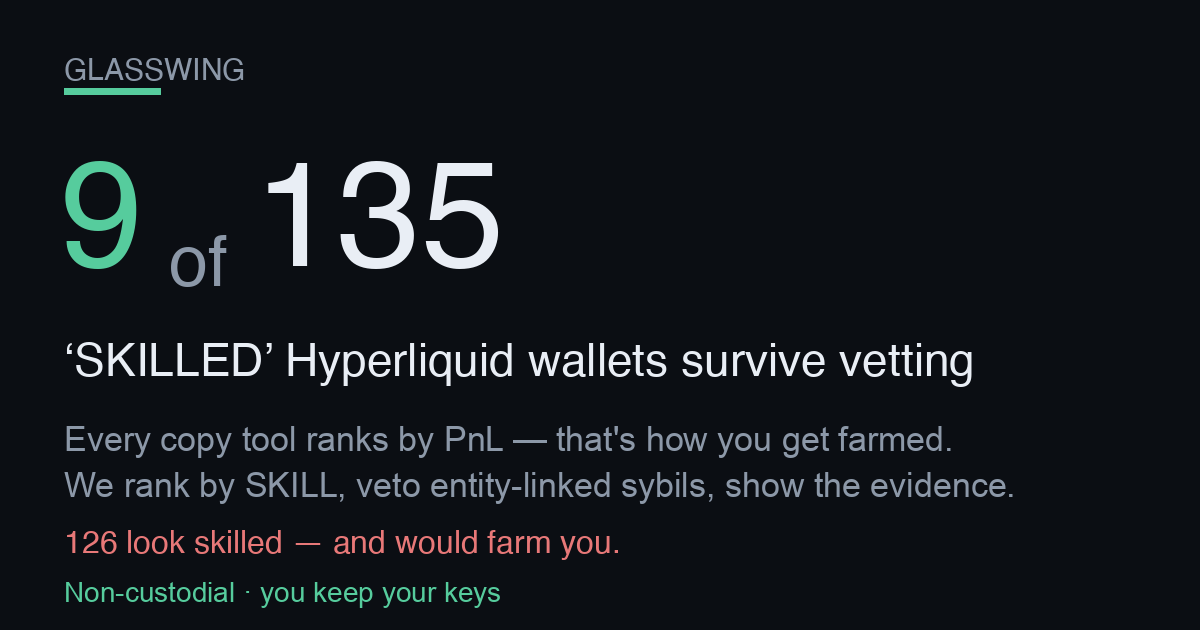
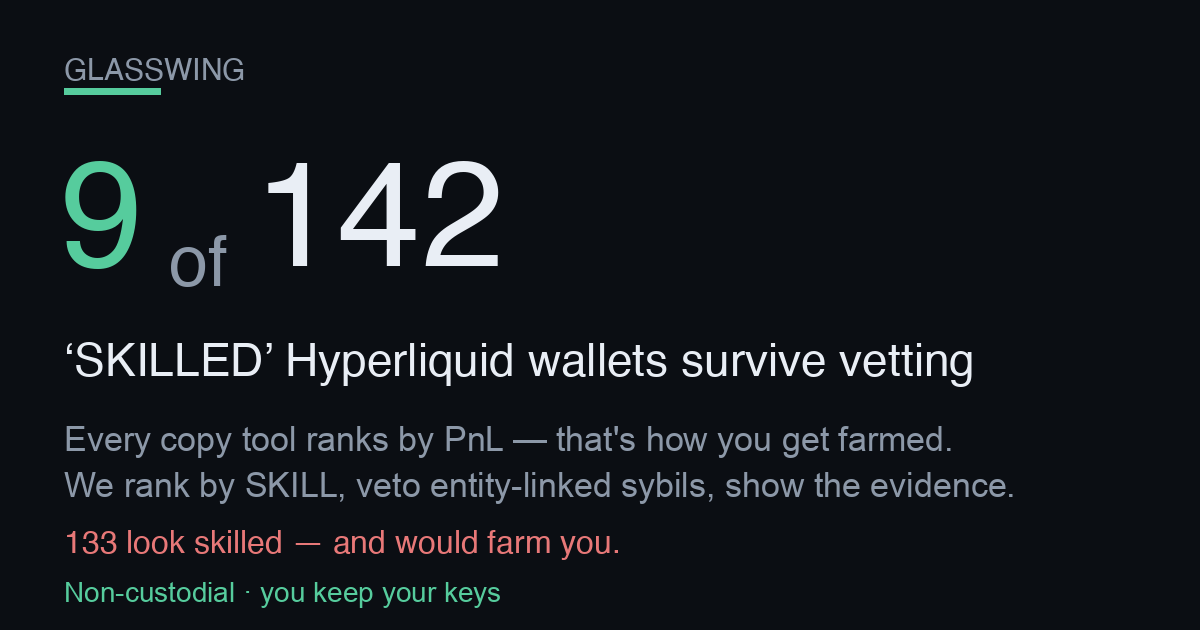
publish funnel 2026-08-03T05:01:57Z

Changed region(s): [[0.2775, 0.2413, 0.4317, 0.4524], [0.0617, 0.8444, 0.0925, 0.8746]]

diff --git a/screener.html b/screener.html
@@ -57,4 +57,4 @@ padding:11px 22px;font-size:15px;font-weight:800;border:1px solid var(--good)}
 footer{margin-top:34px;color:var(--muted);font-size:12px;line-height:1.6;
 border-top:1px solid var(--line);padding-top:16px}
 footer b{color:var(--ink)}
-</style></head><body><div class="wrap"><div class="nav"><a href="./index.html">&larr; Glasswing home</a><span class="sep">|</span><span>Edge Screener</span><span class="sep">|</span><a href="./dex.html">Copy a vetted leader</a></div><div class="hero"><h1>Hyperliquid Edge Screener</h1><div class="sub">Where&rsquo;s the carry, where a maker earns, and what&rsquo;s moving on Hyperliquid &mdash; live, computed from the public API. Bookmark it. Every number below is real and timestamped.</div><div class="stamp">Data as of <b>2026-08-02T16:41:17Z</b> &middot; rendered 2026-08-02T16:41:17Z &middot; 177 perps &middot; 88 HIP-3 (xyz) markets scanned</div></div><h2>Top funding &mdash; the carry table <span class="hint">perps ranked by annualized funding. Positive = longs pay shorts (a delta-neutral short earns it).</span></h2><div class="tblwrap"><table><thead><tr><th>Coin</th><th>Funding / hr</th><th>Annualized</th><th>Who pays</th><th>Open interest</th><th>24h volume</th></tr></thead><tbody><tr><td class="coin">HYPER<span class="tag thin" title="Low liquidity/OI &mdash; ADL &amp; liquidation risk; funding can flip">&#9888; thin</span></td><td>-0.0962%</td><td class="neg">-842.6%</td><td><span class="tag shorts">shorts pay</span></td><td>$477K</td><td>$1.7M</td></tr><tr><td class="coin">ACE<span class="tag thin" title="Low liquidity/OI &mdash; ADL &amp; liquidation risk; funding can flip">&#9888; thin</span></td><td>-0.0278%</td><td class="neg">-243.4%</td><td><span class="tag shorts">shorts pay</span></td><td>$397K</td><td>$734K</td></tr><tr><td class="coin">NIL<span class="tag thin" title="Low liquidity/OI &mdash; ADL &amp; liquidation risk; funding can flip">&#9888; thin</span></td><td>-0.0265%</td><td class="neg">-231.8%</td><td><span class="tag shorts">shorts pay</span></td><td>$456K</td><td>$1.1M</td></tr><tr><td class="coin">KAITO</td><td>+0.0149%</td><td class="pos">+130.2%</td><td><span class="tag longs">longs pay</span></td><td>$21.2M</td><td>$16.5M</td></tr><tr><td class="coin">IMX<span class="tag thin" title="Low liquidity/OI &mdash; ADL &amp; liquidation risk; funding can flip">&#9888; thin</span></td><td>-0.0123%</td><td class="neg">-107.6%</td><td><span class="tag shorts">shorts pay</span></td><td>$976K</td><td>$214K</td></tr><tr><td class="coin">MORPHO</td><td>-0.0079%</td><td class="neg">-69.5%</td><td><span class="tag shorts">shorts pay</span></td><td>$3.8M</td><td>$648K</td></tr><tr><td class="coin">W<span class="tag thin" title="Low liquidity/OI &mdash; ADL &amp; liquidation risk; funding can flip">&#9888; thin</span></td><td>-0.0058%</td><td class="neg">-50.7%</td><td><span class="tag shorts">shorts pay</span></td><td>$1.5M</td><td>$169K</td></tr><tr><td class="coin">APT</td><td>-0.0039%</td><td class="neg">-34.3%</td><td><span class="tag shorts">shorts pay</span></td><td>$3.9M</td><td>$792K</td></tr><tr><td class="coin">POL</td><td>-0.0035%</td><td class="neg">-30.9%</td><td><span class="tag shorts">shorts pay</span></td><td>$2.7M</td><td>$361K</td></tr><tr><td class="coin">MINA<span class="tag thin" title="Low liquidity/OI &mdash; ADL &amp; liquidation risk; funding can flip">&#9888; thin</span></td><td>-0.0034%</td><td class="neg">-29.4%</td><td><span class="tag shorts">shorts pay</span></td><td>$707K</td><td>$92K</td></tr><tr><td class="coin">2Z<span class="tag thin" title="Low liquidity/OI &mdash; ADL &amp; liquidation risk; funding can flip">&#9888; thin</span></td><td>-0.0032%</td><td class="neg">-27.7%</td><td><span class="tag shorts">shorts pay</span></td><td>$629K</td><td>$79K</td></tr><tr><td class="coin">ICP</td><td>-0.0030%</td><td class="neg">-26.4%</td><td><span class="tag shorts">shorts pay</span></td><td>$1.4M</td><td>$352K</td></tr></tbody></table></div><h2>Widest HIP-3 spreads &mdash; where a maker earns <span class="hint">xyz: markets by impact-price spread vs the ~0.6bps round-trip fee. A resting limit order captures the gap.</span></h2><div class="tblwrap"><table><thead><tr><th>Market</th><th>Spread</th><th>vs 0.6bps fee</th><th>Mid</th><th>24h volume</th></tr></thead><tbody><tr><td class="coin">xyz:GIGADEV<span class="tag gm">growth</span></td><td>274.9 bps</td><td class="pos">+274.3 bps</td><td>55.0065</td><td>$21K</td></tr><tr><td class="coin">xyz:SOFTBANK<span class="tag gm">growth</span></td><td>168.9 bps</td><td class="pos">+168.3 bps</td><td>30.8350</td><td>$7K</td></tr><tr><td class="coin">xyz:BIRD<span class="tag gm">growth</span></td><td>145.5 bps</td><td class="pos">+144.9 bps</td><td>2.2405</td><td>$12K</td></tr><tr><td class="coin">xyz:BOT<span class="tag gm">growth</span></td><td>100.6 bps</td><td class="pos">+100.0 bps</td><td>26.3430</td><td>$99K</td></tr><tr><td class="coin">xyz:EWZ<span class="tag gm">growth</span></td><td>96.3 bps</td><td class="pos">+95.7 bps</td><td>37.1445</td><td>$338K</td></tr><tr><td class="coin">xyz:MINIMAX<span class="tag gm">growth</span></td><td>82.3 bps</td><td class="pos">+81.7 bps</td><td>29.6115</td><td>$352K</td></tr><tr><td class="coin">xyz:URNM<span class="tag gm">growth</span></td><td>67.3 bps</td><td class="pos">+66.7 bps</td><td>48.9020</td><td>$28K</td></tr><tr><td class="coin">xyz:EWT<span class="tag gm">growth</span></td><td>54.1 bps</td><td class="pos">+53.5 bps</td><td>96.4905</td><td>$130K</td></tr><tr><td class="coin">xyz:QNT<span class="tag gm">growth</span></td><td>53.2 bps</td><td class="pos">+52.6 bps</td><td>51.4970</td><td>$29K</td></tr><tr><td class="coin">xyz:JP225<span class="tag gm">growth</span></td><td>51.9 bps</td><td class="pos">+51.3 bps</td><td>63,665.50</td><td>$200K</td></tr><tr><td class="coin">xyz:EBAY<span class="tag gm">growth</span></td><td>46.0 bps</td><td class="pos">+45.4 bps</td><td>113.9550</td><td>$67K</td></tr><tr><td class="coin">xyz:SMH<span class="tag gm">growth</span></td><td>44.7 bps</td><td class="pos">+44.1 bps</td><td>549.1700</td><td>$189K</td></tr></tbody></table></div><h2>Momentum &amp; volume &mdash; what&rsquo;s moving <span class="hint">perps by 24h volume with the 24h price change (mark vs prior-day).</span></h2><div class="tblwrap"><table><thead><tr><th>Coin</th><th>24h volume</th><th>24h change</th><th>Mark</th></tr></thead><tbody><tr><td class="coin">BTC</td><td>$1.17B</td><td class="pos">+0.41%</td><td>63,199.00</td></tr><tr><td class="coin">ETH</td><td>$656.3M</td><td class="neg">-0.37%</td><td>1,862.50</td></tr><tr><td class="coin">HYPE</td><td>$162.9M</td><td class="neg">-0.81%</td><td>52.0940</td></tr><tr><td class="coin">SOL</td><td>$99.1M</td><td class="pos">+0.47%</td><td>73.1520</td></tr><tr><td class="coin">ZEC</td><td>$37.0M</td><td class="neg">-0.03%</td><td>472.8900</td></tr><tr><td class="coin">PUMP</td><td>$24.8M</td><td class="pos">+1.64%</td><td>0.002165</td></tr><tr><td class="coin">XRP</td><td>$17.5M</td><td class="pos">+1.77%</td><td>1.0803</td></tr><tr><td class="coin">KAITO</td><td>$16.5M</td><td class="neg">-4.01%</td><td>1.1069</td></tr><tr><td class="coin">DOGE</td><td>$10.7M</td><td class="pos">+0.38%</td><td>0.070356</td></tr><tr><td class="coin">ADA</td><td>$9.4M</td><td class="pos">+9.25%</td><td>0.19009</td></tr><tr><td class="coin">LIT</td><td>$8.9M</td><td class="pos">+0.79%</td><td>2.0391</td></tr><tr><td class="coin">AAVE</td><td>$8.5M</td><td class="pos">+0.58%</td><td>92.2810</td></tr></tbody></table></div><div class="cta"><h2>These are the opportunities. Now copy the people who trade them.</h2><p class="lead">Spotting the carry and the spreads is the easy part &mdash; sizing, timing and risk are where most traders bleed. Copy the <b>skill-vetted</b> Hyperliquid leaders who actually trade these edges. Non-custodial: <b>you keep your keys and your funds</b> the entire time.</p><div class="row"><a class="btn" href="./index.html">See the vetted leaders &rarr;</a><a class="btn ghost" href="./dex.html">Start copying (non-custodial) &rarr;</a></div><div class="nc"><b>Non-custodial &amp; honest:</b> we never hold your keys or funds. Copying routes through a <b>0.01%</b> (1bp) on-chain builder fee &mdash; that is the only thing we ever charge, and it is the same fee shown on the copy page. Nothing on this screener is executed for you; it is information only.</div></div><footer><b>Not financial advice.</b> Funding rates, spreads and volumes are live snapshots that change every block; figures can be stale by the time you act. A high funding rate is <b>not free money</b> &mdash; the biggest rates sit on the thinnest, most crowded books (flagged &#9888; thin), where funding can flip against you and auto-deleveraging (ADL) or liquidation can close your position. &ldquo;Spread&rdquo; here is the impact-price spread (a conservative maker signal), not a guaranteed fill. HIP-3 markets are experimental. Do your own research and size responsibly. Glasswing is <b>non-custodial</b> &mdash; we never take custody of your keys or funds.</footer></div></body></html>
+</style></head><body><div class="wrap"><div class="nav"><a href="./index.html">&larr; Glasswing home</a><span class="sep">|</span><span>Edge Screener</span><span class="sep">|</span><a href="./dex.html">Copy a vetted leader</a></div><div class="hero"><h1>Hyperliquid Edge Screener</h1><div class="sub">Where&rsquo;s the carry, where a maker earns, and what&rsquo;s moving on Hyperliquid &mdash; live, computed from the public API. Bookmark it. Every number below is real and timestamped.</div><div class="stamp">Data as of <b>2026-08-03T05:01:30Z</b> &middot; rendered 2026-08-03T05:01:30Z &middot; 177 perps &middot; 88 HIP-3 (xyz) markets scanned</div></div><h2>Top funding &mdash; the carry table <span class="hint">perps ranked by annualized funding. Positive = longs pay shorts (a delta-neutral short earns it).</span></h2><div class="tblwrap"><table><thead><tr><th>Coin</th><th>Funding / hr</th><th>Annualized</th><th>Who pays</th><th>Open interest</th><th>24h volume</th></tr></thead><tbody><tr><td class="coin">NIL<span class="tag thin" title="Low liquidity/OI &mdash; ADL &amp; liquidation risk; funding can flip">&#9888; thin</span></td><td>-0.0690%</td><td class="neg">-604.6%</td><td><span class="tag shorts">shorts pay</span></td><td>$472K</td><td>$1.4M</td></tr><tr><td class="coin">HYPER<span class="tag thin" title="Low liquidity/OI &mdash; ADL &amp; liquidation risk; funding can flip">&#9888; thin</span></td><td>-0.0408%</td><td class="neg">-357.2%</td><td><span class="tag shorts">shorts pay</span></td><td>$413K</td><td>$1.6M</td></tr><tr><td class="coin">ACE<span class="tag thin" title="Low liquidity/OI &mdash; ADL &amp; liquidation risk; funding can flip">&#9888; thin</span></td><td>-0.0305%</td><td class="neg">-266.9%</td><td><span class="tag shorts">shorts pay</span></td><td>$425K</td><td>$443K</td></tr><tr><td class="coin">BSV<span class="tag thin" title="Low liquidity/OI &mdash; ADL &amp; liquidation risk; funding can flip">&#9888; thin</span></td><td>-0.0190%</td><td class="neg">-166.3%</td><td><span class="tag shorts">shorts pay</span></td><td>$406K</td><td>$126K</td></tr><tr><td class="coin">KAITO</td><td>+0.0082%</td><td class="pos">+71.6%</td><td><span class="tag longs">longs pay</span></td><td>$24.8M</td><td>$26.4M</td></tr><tr><td class="coin">MORPHO</td><td>-0.0074%</td><td class="neg">-64.5%</td><td><span class="tag shorts">shorts pay</span></td><td>$3.8M</td><td>$563K</td></tr><tr><td class="coin">ETC</td><td>-0.0058%</td><td class="neg">-51.2%</td><td><span class="tag shorts">shorts pay</span></td><td>$1.2M</td><td>$323K</td></tr><tr><td class="coin">USUAL<span class="tag thin" title="Low liquidity/OI &mdash; ADL &amp; liquidation risk; funding can flip">&#9888; thin</span></td><td>-0.0036%</td><td class="neg">-31.3%</td><td><span class="tag shorts">shorts pay</span></td><td>$155K</td><td>$113K</td></tr><tr><td class="coin">CRV</td><td>-0.0034%</td><td class="neg">-29.7%</td><td><span class="tag shorts">shorts pay</span></td><td>$6.1M</td><td>$1.7M</td></tr><tr><td class="coin">BABY<span class="tag thin" title="Low liquidity/OI &mdash; ADL &amp; liquidation risk; funding can flip">&#9888; thin</span></td><td>-0.0033%</td><td class="neg">-29.1%</td><td><span class="tag shorts">shorts pay</span></td><td>$187K</td><td>$245K</td></tr><tr><td class="coin">ATOM<span class="tag thin" title="Low liquidity/OI &mdash; ADL &amp; liquidation risk; funding can flip">&#9888; thin</span></td><td>-0.0029%</td><td class="neg">-25.8%</td><td><span class="tag shorts">shorts pay</span></td><td>$2.1M</td><td>$222K</td></tr><tr><td class="coin">TRUMP</td><td>-0.0026%</td><td class="neg">-22.7%</td><td><span class="tag shorts">shorts pay</span></td><td>$8.0M</td><td>$666K</td></tr></tbody></table></div><h2>Widest HIP-3 spreads &mdash; where a maker earns <span class="hint">xyz: markets by impact-price spread vs the ~0.6bps round-trip fee. A resting limit order captures the gap.</span></h2><div class="tblwrap"><table><thead><tr><th>Market</th><th>Spread</th><th>vs 0.6bps fee</th><th>Mid</th><th>24h volume</th></tr></thead><tbody><tr><td class="coin">xyz:GIGADEV<span class="tag gm">growth</span></td><td>310.9 bps</td><td class="pos">+310.3 bps</td><td>52.0270</td><td>$276K</td></tr><tr><td class="coin">xyz:BIRD<span class="tag gm">growth</span></td><td>112.5 bps</td><td class="pos">+111.9 bps</td><td>2.2477</td><td>$16K</td></tr><tr><td class="coin">xyz:PURRDAT</td><td>70.0 bps</td><td class="pos">+69.4 bps</td><td>6.2243</td><td>$374K</td></tr><tr><td class="coin">xyz:SHAZ<span class="tag gm">growth</span></td><td>62.0 bps</td><td class="pos">+61.4 bps</td><td>48.3270</td><td>$90K</td></tr><tr><td class="coin">xyz:BOT<span class="tag gm">growth</span></td><td>60.8 bps</td><td class="pos">+60.2 bps</td><td>26.5775</td><td>$91K</td></tr><tr><td class="coin">xyz:KR200<span class="tag gm">growth</span></td><td>50.7 bps</td><td class="pos">+50.1 bps</td><td>992.6900</td><td>$1.0M</td></tr><tr><td class="coin">xyz:SOFTBANK<span class="tag gm">growth</span></td><td>47.7 bps</td><td class="pos">+47.1 bps</td><td>34.4290</td><td>$447K</td></tr><tr><td class="coin">xyz:CXMT<span class="tag gm">growth</span></td><td>37.2 bps</td><td class="pos">+36.6 bps</td><td>7.8271</td><td>$22.3M</td></tr><tr><td class="coin">xyz:KIOXIA<span class="tag gm">growth</span></td><td>34.6 bps</td><td class="pos">+34.0 bps</td><td>314.4850</td><td>$17.4M</td></tr><tr><td class="coin">xyz:MINIMAX<span class="tag gm">growth</span></td><td>34.4 bps</td><td class="pos">+33.8 bps</td><td>31.8210</td><td>$3.3M</td></tr><tr><td class="coin">xyz:URNM<span class="tag gm">growth</span></td><td>33.1 bps</td><td class="pos">+32.5 bps</td><td>48.8190</td><td>$19K</td></tr><tr><td class="coin">xyz:HIMS<span class="tag gm">growth</span></td><td>31.2 bps</td><td class="pos">+30.6 bps</td><td>28.2340</td><td>$70K</td></tr></tbody></table></div><h2>Momentum &amp; volume &mdash; what&rsquo;s moving <span class="hint">perps by 24h volume with the 24h price change (mark vs prior-day).</span></h2><div class="tblwrap"><table><thead><tr><th>Coin</th><th>24h volume</th><th>24h change</th><th>Mark</th></tr></thead><tbody><tr><td class="coin">BTC</td><td>$948.6M</td><td class="neg">-1.17%</td><td>62,822.00</td></tr><tr><td class="coin">ETH</td><td>$481.0M</td><td class="neg">-1.31%</td><td>1,855.50</td></tr><tr><td class="coin">HYPE</td><td>$172.6M</td><td class="neg">-0.55%</td><td>52.2600</td></tr><tr><td class="coin">SOL</td><td>$68.0M</td><td class="neg">-0.88%</td><td>72.8610</td></tr><tr><td class="coin">ZEC</td><td>$42.9M</td><td class="pos">+0.47%</td><td>477.2094</td></tr><tr><td class="coin">KAITO</td><td>$26.4M</td><td class="neg">-18.67%</td><td>0.95539</td></tr><tr><td class="coin">PUMP</td><td>$19.3M</td><td class="neg">-9.41%</td><td>0.002061</td></tr><tr><td class="coin">XRP</td><td>$15.5M</td><td class="neg">-1.05%</td><td>1.0703</td></tr><tr><td class="coin">ADA</td><td>$10.5M</td><td class="pos">+0.65%</td><td>0.18431</td></tr><tr><td class="coin">LIT</td><td>$9.6M</td><td class="neg">-6.26%</td><td>2.0018</td></tr><tr><td class="coin">ENA</td><td>$9.3M</td><td class="pos">+0.75%</td><td>0.088107</td></tr><tr><td class="coin">DOGE</td><td>$8.2M</td><td class="neg">-0.66%</td><td>0.069745</td></tr></tbody></table></div><div class="cta"><h2>These are the opportunities. Now copy the people who trade them.</h2><p class="lead">Spotting the carry and the spreads is the easy part &mdash; sizing, timing and risk are where most traders bleed. Copy the <b>skill-vetted</b> Hyperliquid leaders who actually trade these edges. Non-custodial: <b>you keep your keys and your funds</b> the entire time.</p><div class="row"><a class="btn" href="./index.html">See the vetted leaders &rarr;</a><a class="btn ghost" href="./dex.html">Start copying (non-custodial) &rarr;</a></div><div class="nc"><b>Non-custodial &amp; honest:</b> we never hold your keys or funds. Copying routes through a <b>0.01%</b> (1bp) on-chain builder fee &mdash; that is the only thing we ever charge, and it is the same fee shown on the copy page. Nothing on this screener is executed for you; it is information only.</div></div><footer><b>Not financial advice.</b> Funding rates, spreads and volumes are live snapshots that change every block; figures can be stale by the time you act. A high funding rate is <b>not free money</b> &mdash; the biggest rates sit on the thinnest, most crowded books (flagged &#9888; thin), where funding can flip against you and auto-deleveraging (ADL) or liquidation can close your position. &ldquo;Spread&rdquo; here is the impact-price spread (a conservative maker signal), not a guaranteed fill. HIP-3 markets are experimental. Do your own research and size responsibly. Glasswing is <b>non-custodial</b> &mdash; we never take custody of your keys or funds.</footer></div></body></html>

diff --git a/track.html b/track.html
@@ -62,35 +62,35 @@ font-weight:600;font-size:14px}
 <div class="wrap">
   <div class="hero">
     <h1>Self-verifying on-chain track record</h1>
-    <div class="big">$267.20</div>
+    <div class="big">$267.82</div>
     <div class="sub">current on-chain equity (perp + vault + spot USDC)</div>
     <div class="addr">0xbe6C1b09662BbE52CC93279D103Feb27985DdBc1</div>
-    <div class="stage early">14 days live — EARLY / NOT YET A MATURE RECORD</div>
+    <div class="stage early">15 days live — EARLY / NOT YET A MATURE RECORD</div>
   </div>
 
-  <div class="warnbar">EARLY-STAGE: this record is only 14 days live. It is NOT a mature track record and NOT an APR promise. We deliberately do not annualize a sample this young. Verify every figure yourself below.</div>
+  <div class="warnbar">EARLY-STAGE: this record is only 15 days live. It is NOT a mature track record and NOT an APR promise. We deliberately do not annualize a sample this young. Verify every figure yourself below.</div>
 
   <h2>On-chain figures <span style="color:var(--muted);font-weight:400;font-size:13px">
   &mdash; every one reproducible from the public info API</span></h2>
-  <table><tbody><tr><td class="k">On-chain equity (perp + vault + spot USDC)</td><td class="v">$267.20</td></tr><tr><td class="k">Perp account value</td><td class="v">$216.86</td></tr><tr><td class="k">Vault equity</td><td class="v">$49.79</td></tr><tr><td class="k">Spot USDC</td><td class="v">$0.55</td></tr><tr><td class="k">Withdrawable</td><td class="v">$208.38</td></tr></tbody></table>
+  <table><tbody><tr><td class="k">On-chain equity (perp + vault + spot USDC)</td><td class="v">$267.82</td></tr><tr><td class="k">Perp account value</td><td class="v">$217.69</td></tr><tr><td class="k">Vault equity</td><td class="v">$49.59</td></tr><tr><td class="k">Spot USDC</td><td class="v">$0.55</td></tr><tr><td class="k">Withdrawable</td><td class="v">$209.38</td></tr></tbody></table>
 
-  <h2>Vault deposits (on-chain)</h2><table><thead><tr><th>Vault address</th><th>Our equity</th></tr></thead><tbody><tr><td class="mono">0x2431edfcb662e6ff6deab113cc91878a0b53fb0f</td><td class="v">$0.01</td></tr><tr><td class="mono">0x697bc3dd77539fa84156d0e1c95287ea5524fd6b</td><td class="v">$25.97</td></tr><tr><td class="mono">0x8825e6ed11c7f9c0874579c9f4bba192b9e81c8f</td><td class="v">$0.12</td></tr><tr><td class="mono">0xc71f5a493b937e4b1798b86510630336a6dfd804</td><td class="v">$23.70</td></tr></tbody></table>
+  <h2>Vault deposits (on-chain)</h2><table><thead><tr><th>Vault address</th><th>Our equity</th></tr></thead><tbody><tr><td class="mono">0x2431edfcb662e6ff6deab113cc91878a0b53fb0f</td><td class="v">$0.01</td></tr><tr><td class="mono">0x697bc3dd77539fa84156d0e1c95287ea5524fd6b</td><td class="v">$25.79</td></tr><tr><td class="mono">0x8825e6ed11c7f9c0874579c9f4bba192b9e81c8f</td><td class="v">$0.12</td></tr><tr><td class="mono">0xc71f5a493b937e4b1798b86510630336a6dfd804</td><td class="v">$23.68</td></tr></tbody></table>
 
   <h2>Performance <span style="color:var(--muted);font-weight:400;font-size:13px">
   &mdash; honest stage, no annualization</span></h2>
-  <table><tbody><tr><td class="k">Days live (our formal record)</td><td class="v">14</td></tr><tr><td class="k">Maturity</td><td class="v">EARLY / NOT YET A MATURE RECORD</td></tr><tr><td class="k">Current real strategy income / day</td><td class="v">$0.0455</td></tr><tr><td class="k">Cumulative net income (if attributed)</td><td class="v">$0.7407</td></tr><tr><td class="k">Annualized APR</td><td class="v">intentionally NOT computed (record too young)</td></tr></tbody></table>
+  <table><tbody><tr><td class="k">Days live (our formal record)</td><td class="v">15</td></tr><tr><td class="k">Maturity</td><td class="v">EARLY / NOT YET A MATURE RECORD</td></tr><tr><td class="k">Current real strategy income / day</td><td class="v">$0.0416</td></tr><tr><td class="k">Cumulative net income (if attributed)</td><td class="v">$0.7484</td></tr><tr><td class="k">Annualized APR</td><td class="v">intentionally NOT computed (record too young)</td></tr></tbody></table>
 
   <h2>Strategy arms <span style="color:var(--muted);font-weight:400;font-size:13px">
   &mdash; internal marks, cross-checkable against chain equity</span></h2>
-  <table><thead><tr><th>Arm</th><th>Status</th><th>Real / day</th><th>Note</th></tr></thead><tbody><tr><td class="v">carry</td><td><span class="badge off">—</span></td><td class="v">$0.0455</td><td class="k"></td></tr><tr><td class="v">copy</td><td><span class="badge live">live</span></td><td class="v">$0.0000</td><td class="k"></td></tr><tr><td class="v">builder</td><td><span class="badge off">—</span></td><td class="v">$0.0000</td><td class="k">proven live; $0 until distributed (∝ users&#x27; volume)</td></tr></tbody></table>
+  <table><thead><tr><th>Arm</th><th>Status</th><th>Real / day</th><th>Note</th></tr></thead><tbody><tr><td class="v">carry</td><td><span class="badge off">—</span></td><td class="v">$0.0416</td><td class="k"></td></tr><tr><td class="v">copy</td><td><span class="badge live">live</span></td><td class="v">$0.0000</td><td class="k"></td></tr><tr><td class="v">builder</td><td><span class="badge off">—</span></td><td class="v">$0.0000</td><td class="k">proven live; $0 until distributed (∝ users&#x27; volume)</td></tr></tbody></table>
 
   <h2>Reproduce it</h2>
   <div class="verify"><h3>Verify this yourself</h3><p>These are PUBLIC calls. Run them yourself against the address below and you will re-derive every on-chain figure on this page. equity_usd = perp accountValue + vault equity + spot USDC. Endpoint: https://api.hyperliquid.xyz/info</p><div class="cn">clearinghouseState &rarr; marginSummary.accountValue (perp value), withdrawable, marginSummary.totalMarginUsed</div><pre>curl -s -X POST https://api.hyperliquid.xyz/info -H &#x27;Content-Type: application/json&#x27; -d &#x27;{&quot;type&quot;: &quot;clearinghouseState&quot;, &quot;user&quot;: &quot;0xbe6C1b09662BbE52CC93279D103Feb27985DdBc1&quot;}&#x27;</pre><div class="cn">userVaultEquities &rarr; sum of each entry&#x27;s equity (our vault deposits)</div><pre>curl -s -X POST https://api.hyperliquid.xyz/info -H &#x27;Content-Type: application/json&#x27; -d &#x27;{&quot;type&quot;: &quot;userVaultEquities&quot;, &quot;user&quot;: &quot;0xbe6C1b09662BbE52CC93279D103Feb27985DdBc1&quot;}&#x27;</pre><div class="cn">spotClearinghouseState &rarr; balances[] where coin==USDC -&gt; total (spot USDC)</div><pre>curl -s -X POST https://api.hyperliquid.xyz/info -H &#x27;Content-Type: application/json&#x27; -d &#x27;{&quot;type&quot;: &quot;spotClearinghouseState&quot;, &quot;user&quot;: &quot;0xbe6C1b09662BbE52CC93279D103Feb27985DdBc1&quot;}&#x27;</pre></div>
 
   <footer>
     <div>Self-verifying: every on-chain figure is reproducible by querying Hyperliquid&#x27;s public info API for the stated address. Internal daily marks are cross-checkable against on-chain equity. EARLY-STAGE record — not a mature track record, not an APR promise, not financial advice. Past performance != future results.</div>
-    <div class="stamp">Generated at 2026-08-02T16:39:40Z &middot; internal marks
-    mtime 2026-08-02T10:56:50Z &middot; static receipt, no live
+    <div class="stamp">Generated at 2026-08-03T05:01:13Z &middot; internal marks
+    mtime 2026-08-03T04:57:23Z &middot; static receipt, no live
     authority — this page never trades or arms.</div>
   </footer>
 </div>

diff --git a/index.html b/index.html
@@ -3,8 +3,8 @@
 <head>
 <meta charset="utf-8">
 <meta name="viewport" content="width=device-width, initial-scale=1">
-<title>9 of 135 SKILLED Hyperliquid wallets survive vetting</title>
-<meta name="description" content="9 of 135 leaderboard-SKILLED Hyperliquid wallets survive vetting. Copy only the survivors, non-custodial — you keep your keys and funds.">
+<title>9 of 142 SKILLED Hyperliquid wallets survive vetting</title>
+<meta name="description" content="9 of 142 leaderboard-SKILLED Hyperliquid wallets survive vetting. Copy only the survivors, non-custodial — you keep your keys and funds.">
 <link rel="canonical" href="https://dynobit.github.io/glasswing/">
 <meta name="robots" content="index,follow">
 <meta name="theme-color" content="#0b0e13">
@@ -14,14 +14,14 @@
      head, not this. og:url is the canonical Pages home so every share resolves here. -->
 <meta property="og:type" content="website">
 <meta property="og:site_name" content="Glasswing">
-<meta property="og:title" content="9 of 135 SKILLED Hyperliquid wallets survive vetting">
+<meta property="og:title" content="9 of 142 SKILLED Hyperliquid wallets survive vetting">
 <meta property="og:description" content="Every copy tool ranks leaders by PnL — which is how you get farmed. This ranks by SKILL, then vetoes entity-linked sybils, and shows the evidence for every reject. Non-custodial: you keep your keys.">
 <meta property="og:url" content="https://dynobit.github.io/glasswing/">
 <meta property="og:image" content="https://dynobit.github.io/glasswing/og-card.png">
 <meta property="og:image:width" content="1200">
 <meta property="og:image:height" content="630">
 <meta name="twitter:card" content="summary_large_image">
-<meta name="twitter:title" content="9 of 135 SKILLED Hyperliquid wallets survive vetting">
+<meta name="twitter:title" content="9 of 142 SKILLED Hyperliquid wallets survive vetting">
 <meta name="twitter:description" content="Skill-ranked (not PnL-ranked) HL copy-leaders, entity-linked sybils vetoed with evidence. Non-custodial.">
 <meta name="twitter:image" content="https://dynobit.github.io/glasswing/og-card.png">
 <style>
@@ -135,18 +135,18 @@ footer .nc{color:var(--good);font-weight:600}
 
   <!-- 1. HERO — the shareable hook (screenshot-worthy) -->
   <div class="hero">
-    <h1><span class="big">9 of 135</span> &lsquo;SKILLED&rsquo;
+    <h1><span class="big">9 of 142</span> &lsquo;SKILLED&rsquo;
     Hyperliquid wallets survive vetting</h1>
-    <div class="sub">The other <span class="trap">126</span> look skilled on a
+    <div class="sub">The other <span class="trap">133</span> look skilled on a
     raw copy leaderboard but would farm you &mdash; here are the
-    <span class="trap">126</span> that would. Entity-linked sybils,
-    wash-traded track records, or simply unscreened. 6.7% survive.
-    Universe: 1114 scored wallets.</div>
+    <span class="trap">133</span> that would. Entity-linked sybils,
+    wash-traded track records, or simply unscreened. 6.3% survive.
+    Universe: 1153 scored wallets.</div>
   </div>
 
   <!-- 2. THE WEDGE — the marketing (why us, not any other copy tool) -->
   <div class="wedge"><span class="them">Every other copy tool ranks all
-    135 by PnL and calls it a leaderboard.</span> We are the only one that
+    142 by PnL and calls it a leaderboard.</span> We are the only one that
     <b>flags the entity-linked and farming wallets with on-chain evidence</b> &mdash;
     transfer-graph linkage between wallets and arXiv memecoin farm-features &mdash;
     and shows you only the 9 that survive. A high PnL is exactly what a
@@ -268,7 +268,7 @@ footer .nc{color:var(--good);font-weight:600}
   <footer>
     <div class="nc">Non-custodial: we never hold your keys or funds. No server, no backend. Your browser talks only to Hyperliquid&#x27;s public API.</div>
     <div>Advisory. Skill = sign-randomization null vs luck. Entity veto = public transfer-graph linkage. Farm screen = arXiv:2601.08641 features (memecoin thresholds, HL-uncalibrated). Follower-realizable PnL is NOT yet proven — a PRE-COMMITTED forward test is in progress (0/2 windows, earliest 2026-08-13); the copyability claim publishes only when the pre-registered windows close, so it cannot be discovery-mined. Exit-alpha shown is advisory. Not financial advice.</div>
-    <div class="stamp">Generated at 2026-08-02T16:40:02Z &middot; single-file funnel,
+    <div class="stamp">Generated at 2026-08-03T05:01:21Z &middot; single-file funnel,
     no live authority. In-browser order signing is IMPLEMENTED (real secp256k1 +
     keccak + msgpack EIP-712 from a pinned CDN) but UNVALIDATED against Hyperliquid:
     mainnet is blocked until a testnet order is proven accepted.</div>

diff --git a/dex.html b/dex.html
@@ -112,8 +112,8 @@ footer .nc{color:var(--good);font-weight:600}
     funds and your keys the whole time. Two signatures in your own wallet, an
     ephemeral in-browser agent key that can trade but never withdraw, and a
     client-side loop that mirrors only the
-    <b>9 of 135</b> vetted survivors
-    (universe: 1114 scored wallets). No server, no backend.</div>
+    <b>9 of 142</b> vetted survivors
+    (universe: 1153 scored wallets). No server, no backend.</div>
     <div class="tag">static bundle &middot; IPFS-publishable &middot; revenue accrues on-chain</div>
   </div>
 
@@ -217,7 +217,7 @@ footer .nc{color:var(--good);font-weight:600}
   <footer>
     <div class="nc">Pure DEX, self-custodial. No server, no backend, no key we ever hold. Your browser talks only to Hyperliquid&#x27;s public API.</div>
     <div>Advisory. Skill = sign-randomization null vs luck. Entity veto = public transfer-graph linkage. Farm screen = arXiv:2601.08641 features (memecoin thresholds, HL-uncalibrated). Follower-realizable PnL is NOT yet proven — a PRE-COMMITTED forward test is in progress (0/2 windows, earliest 2026-08-13); the copyability claim publishes only when the pre-registered windows close, so it cannot be discovery-mined. Exit-alpha shown is advisory. Not financial advice.</div>
-    <div class="stamp">Generated at 2026-08-02T16:40:02Z &middot; static,
+    <div class="stamp">Generated at 2026-08-03T05:01:21Z &middot; static,
     self-custodial surface, no live authority. In-browser order signing is
     IMPLEMENTED (real secp256k1 + keccak + msgpack EIP-712 from a pinned CDN) but
     UNVALIDATED against Hyperliquid: mainnet is blocked until a testnet order is
